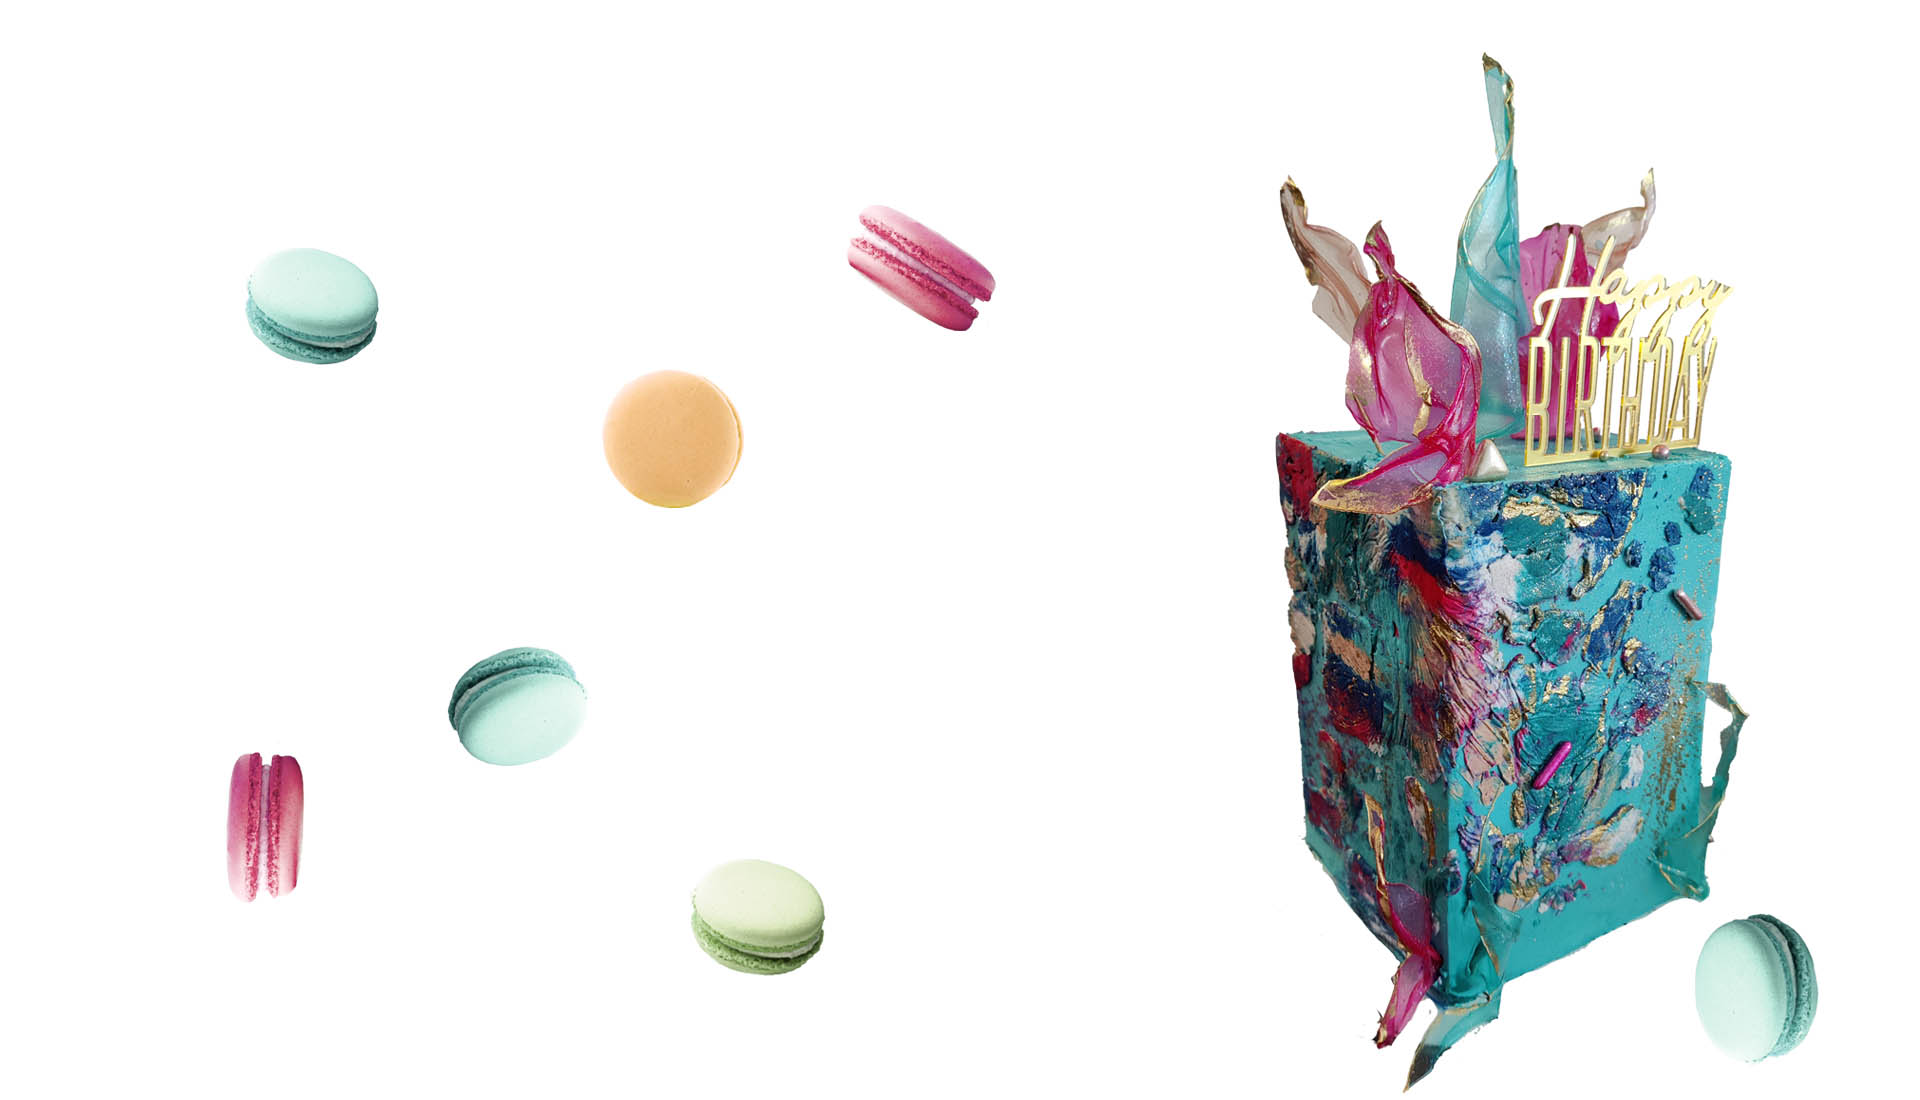
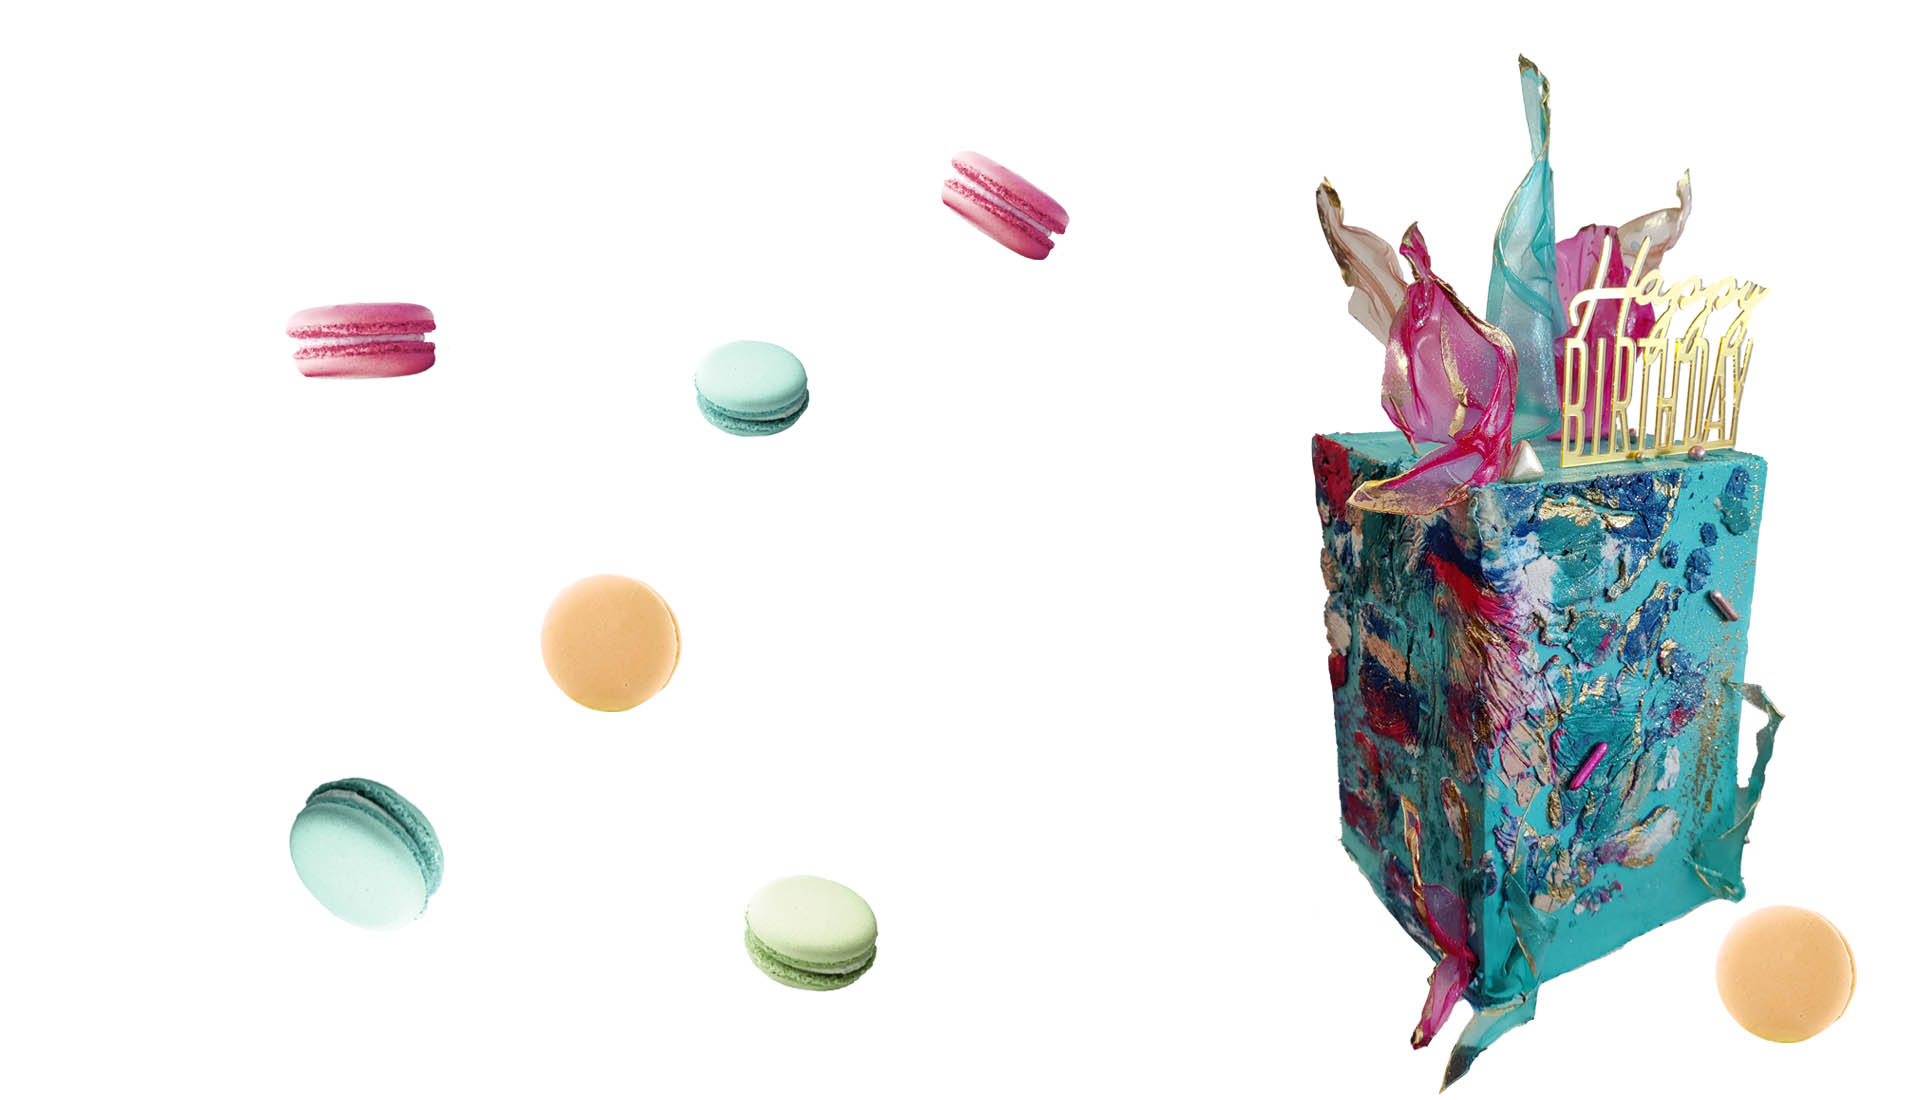
update

diff --git a/index.html b/index.html
@@ -488,7 +488,7 @@ article.format-audio .mejs-horizontal-volume-current {
 									<div class="edgtf-image-with-text-holder edgtf-image-behavior- ">
 										<div class="edgtf-iwt-image">
 											<div class="edgtf-iwt-image-wrapper">
-												<img width="368" height="177" src="wp-content/uploads/hm/hm-buttercream2.png" class="attachment-full size-full" alt="m" />
+												<img width="368" height="177" src="wp-content/uploads/hm/hm-buttercream3.png" class="attachment-full size-full" alt="m" />
 											</div>
 										</div>
 										<div class="edgtf-iwt-text-holder">
